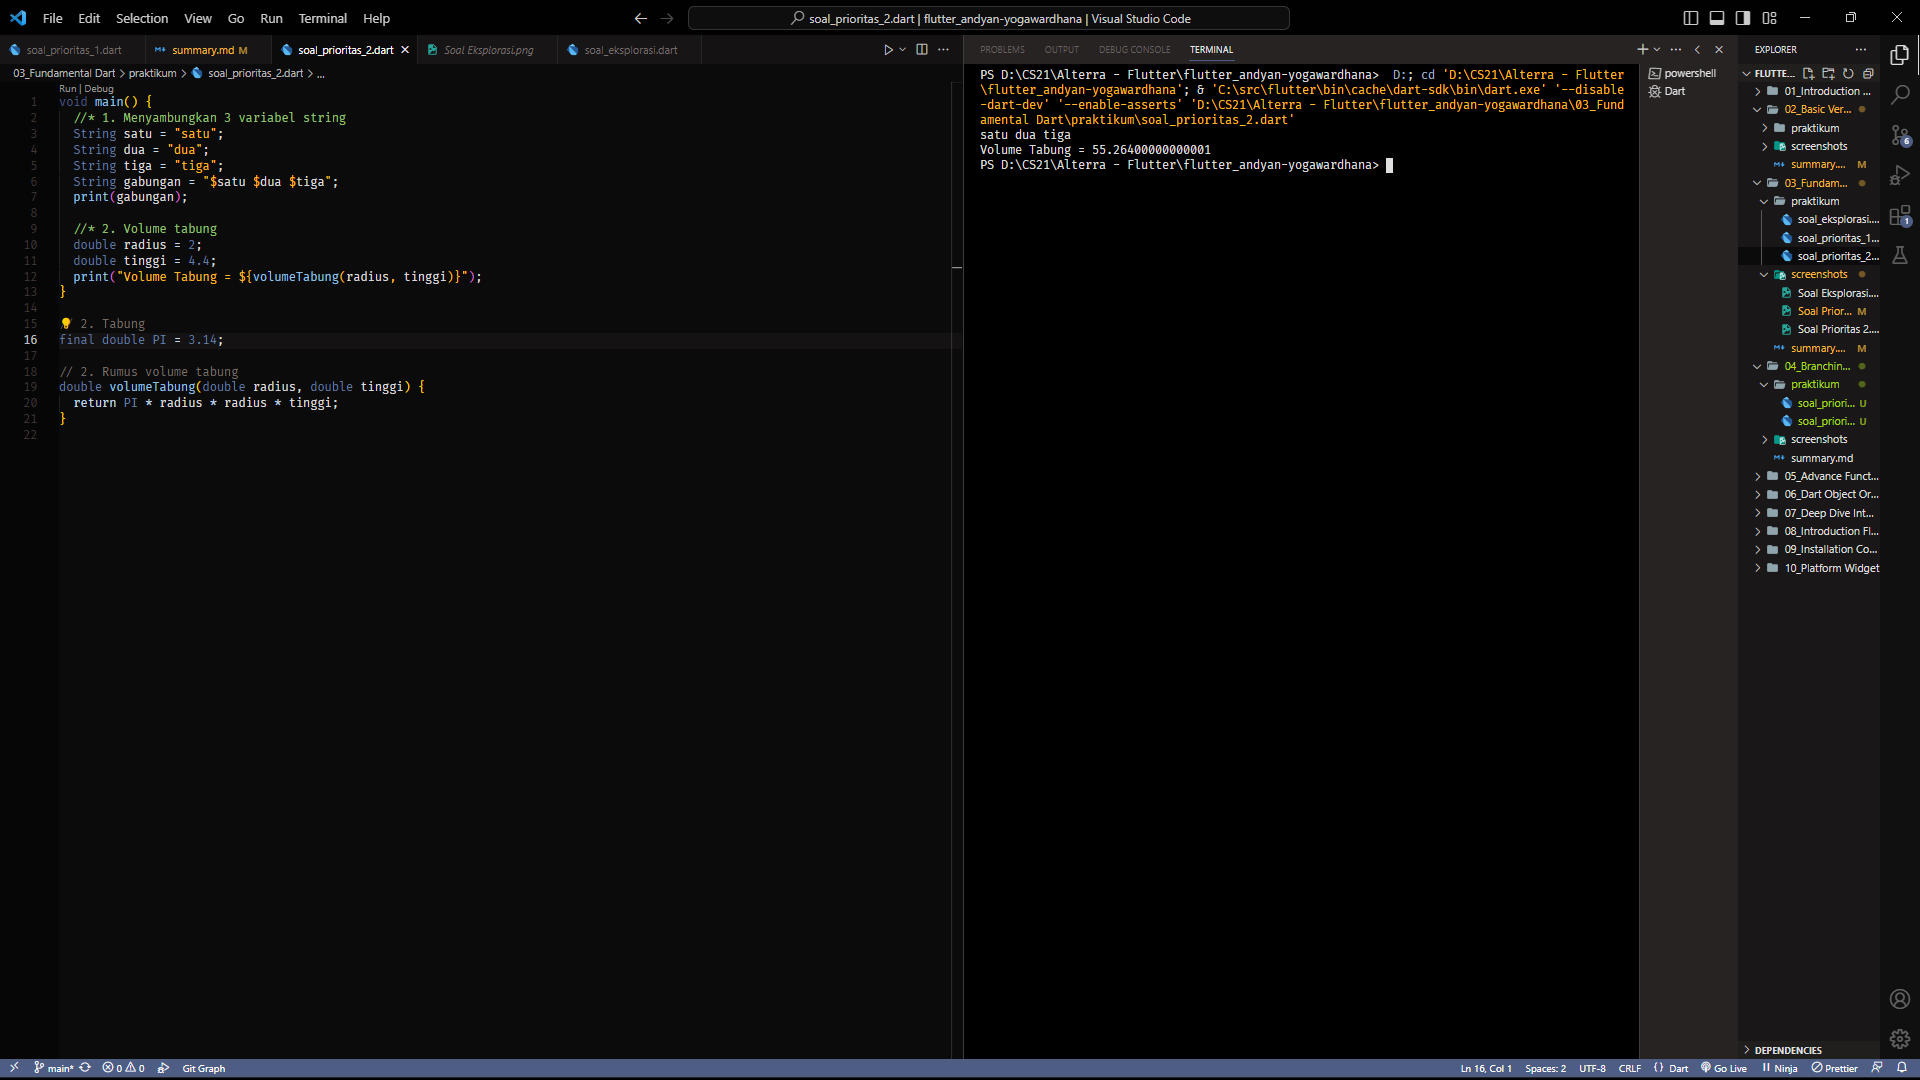
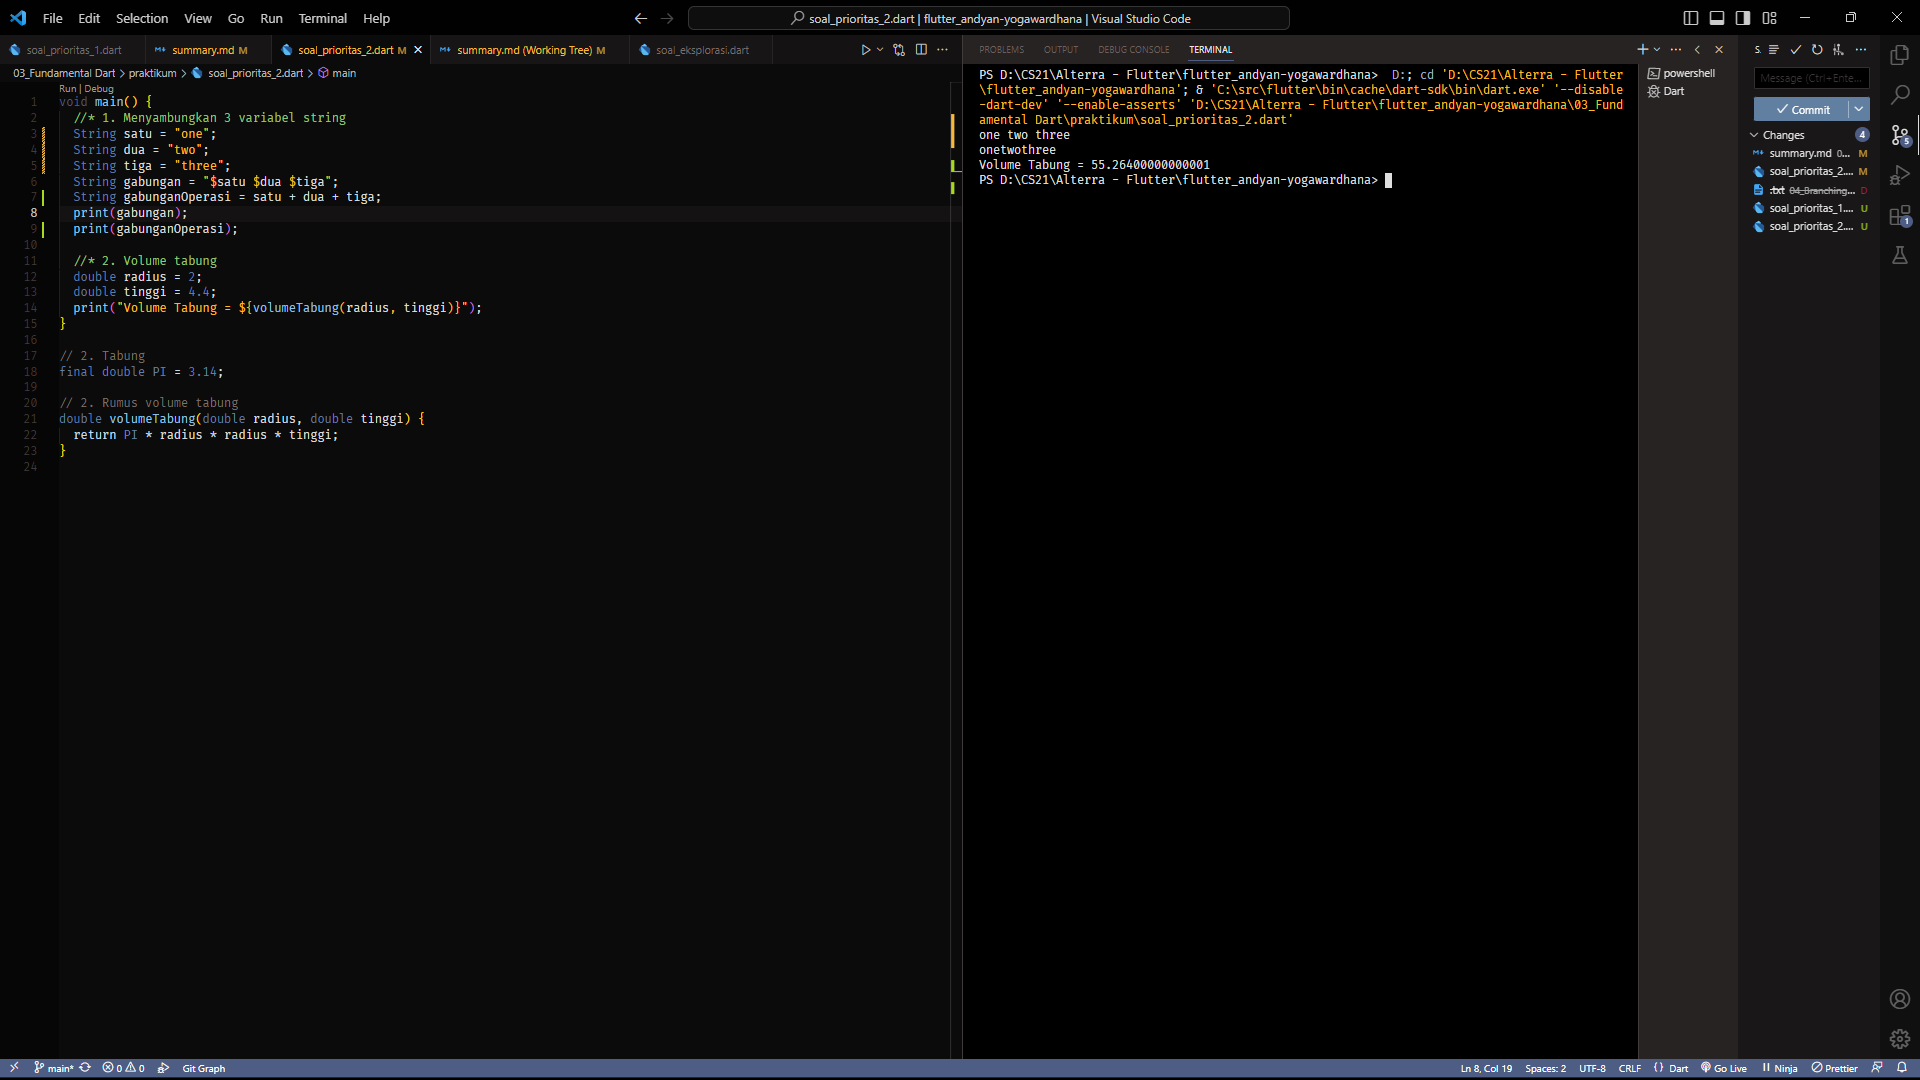
fix - revisi tugas 3 soal prioritas 2

diff --git a/03_Fundamental Dart/praktikum/soal_prioritas_2.dart b/03_Fundamental Dart/praktikum/soal_prioritas_2.dart
@@ -1,10 +1,12 @@
 void main() {
   //* 1. Menyambungkan 3 variabel string
-  String satu = "satu";
-  String dua = "dua";
-  String tiga = "tiga";
+  String satu = "one";
+  String dua = "two";
+  String tiga = "three";
   String gabungan = "$satu $dua $tiga";
+  String gabunganOperasi = satu + dua + tiga;
   print(gabungan);
+  print(gabunganOperasi);
 
   //* 2. Volume tabung
   double radius = 2;
